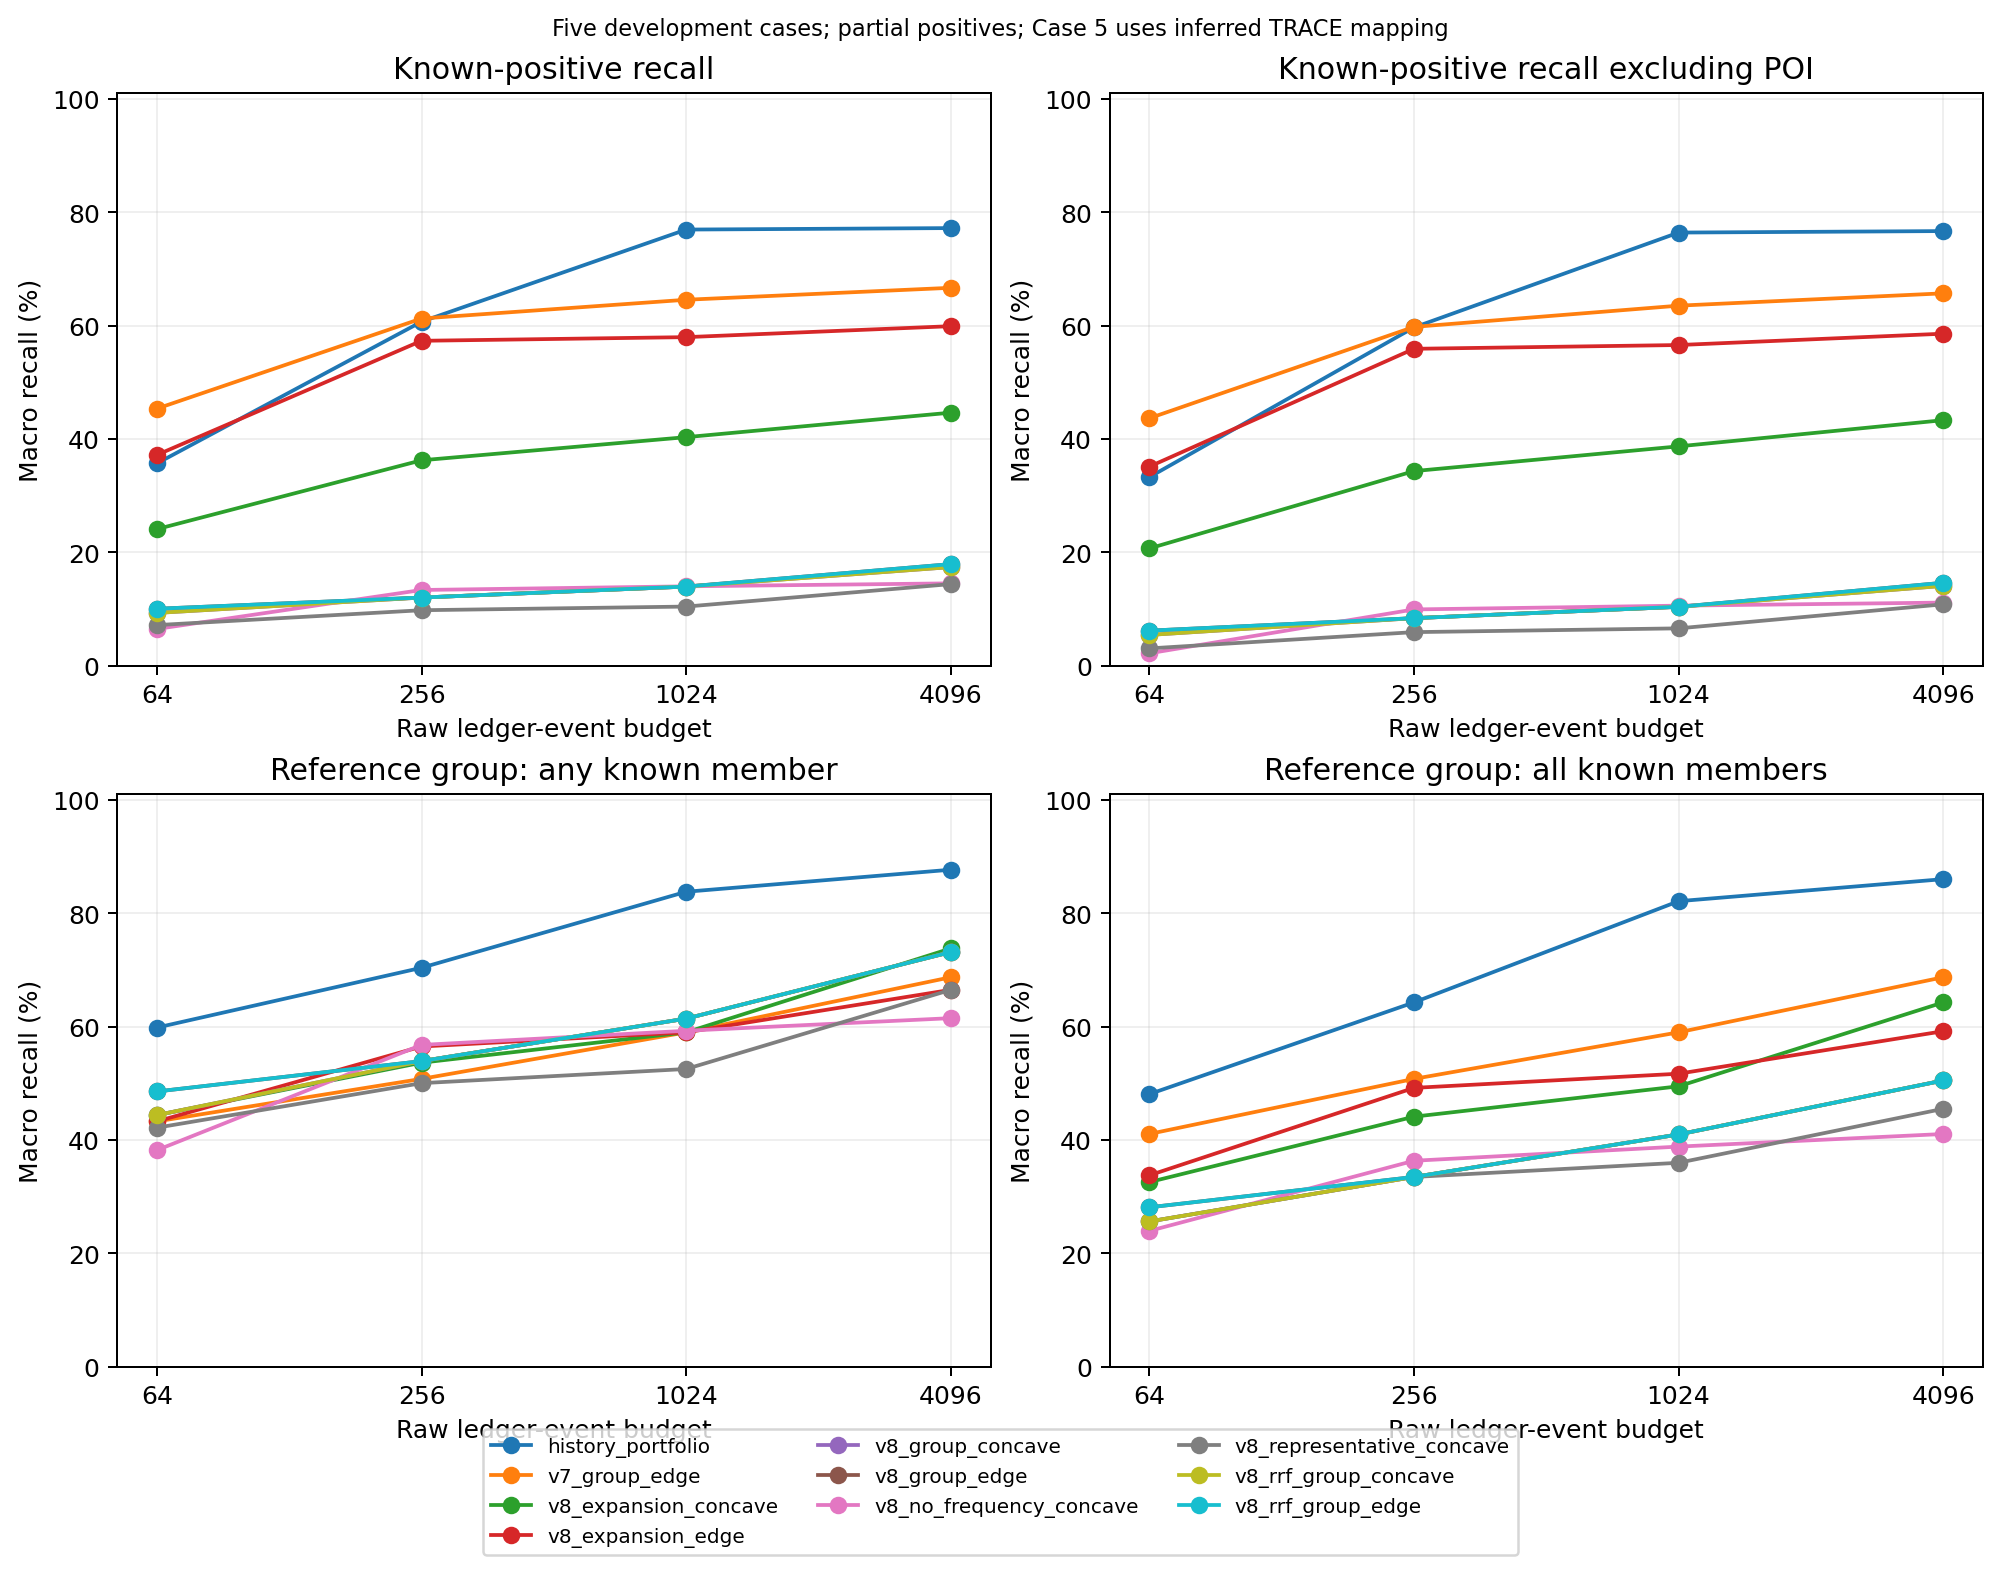
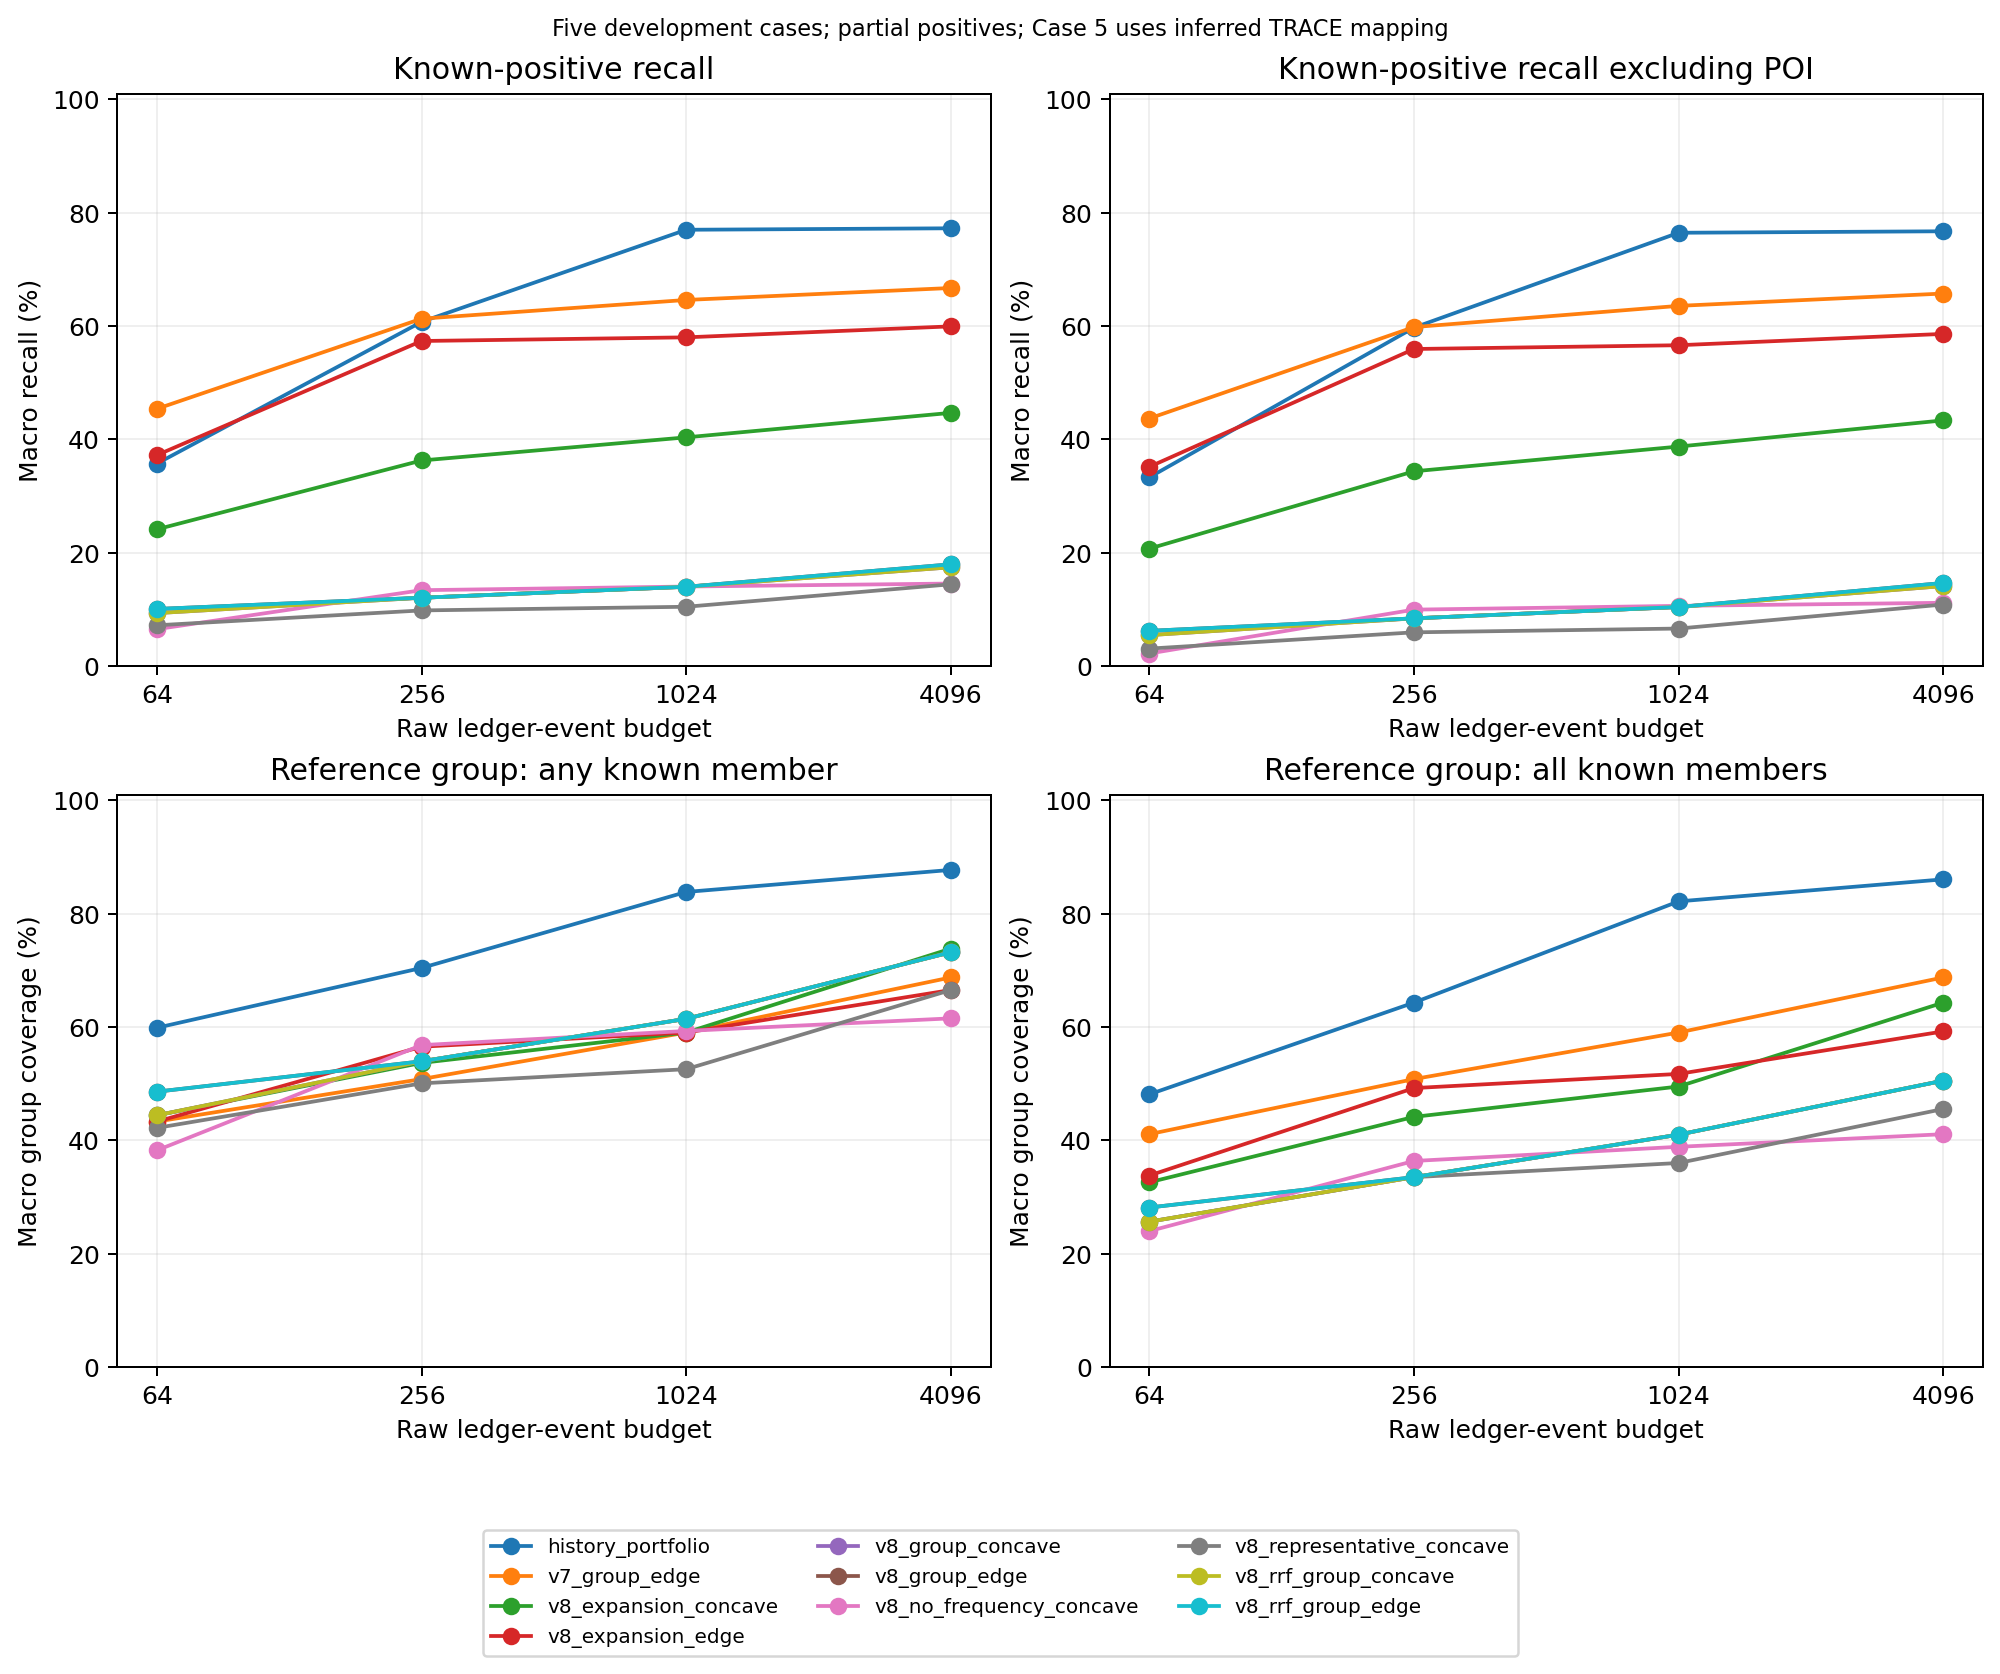
docs: clarify coverage axes and separate plot legends

diff --git a/scripts/plot_group_completion_v8.py b/scripts/plot_group_completion_v8.py
@@ -17,8 +17,8 @@ def main():
             y=[100*r[key] if key.startswith('macro') else 100*statistics.mean(x[key] for x in report['rows'] if x['method']==method and x['budget']==r['budget']) for r in rows]
             ax.plot([r['budget'] for r in rows],y,marker='o',label=method)
     for ax,title in zip(axes,['Known-positive recall','Known-positive recall excluding POI','Reference group: any known member','Reference group: all known members']):
-        ax.set_xscale('log',base=2);ax.set_xticks([64,256,1024,4096],labels=['64','256','1024','4096']);ax.set_ylim(0,101);ax.set_xlabel('Raw ledger-event budget');ax.set_ylabel('Macro recall (%)');ax.set_title(title);ax.grid(alpha=.2)
-    fig.legend(*axes[1].get_legend_handles_labels(),fontsize=8,loc='lower center',bbox_to_anchor=(.5,-.08),ncol=3)
+        ax.set_xscale('log',base=2);ax.set_xticks([64,256,1024,4096],labels=['64','256','1024','4096']);ax.set_ylim(0,101);ax.set_xlabel('Raw ledger-event budget');ax.set_ylabel('Macro recall (%)' if 'recall' in title else 'Macro group coverage (%)');ax.set_title(title);ax.grid(alpha=.2)
+    fig.legend(*axes[1].get_legend_handles_labels(),fontsize=8,loc='lower center',bbox_to_anchor=(.5,-.15),ncol=3)
     fig.suptitle('Five development cases; partial positives; Case 5 uses inferred TRACE mapping',fontsize=9)
     for ext in ('pdf','png'):fig.savefig(a.output/f'budget-curves.{ext}',dpi=180,bbox_inches='tight')
     plt.close(fig)
